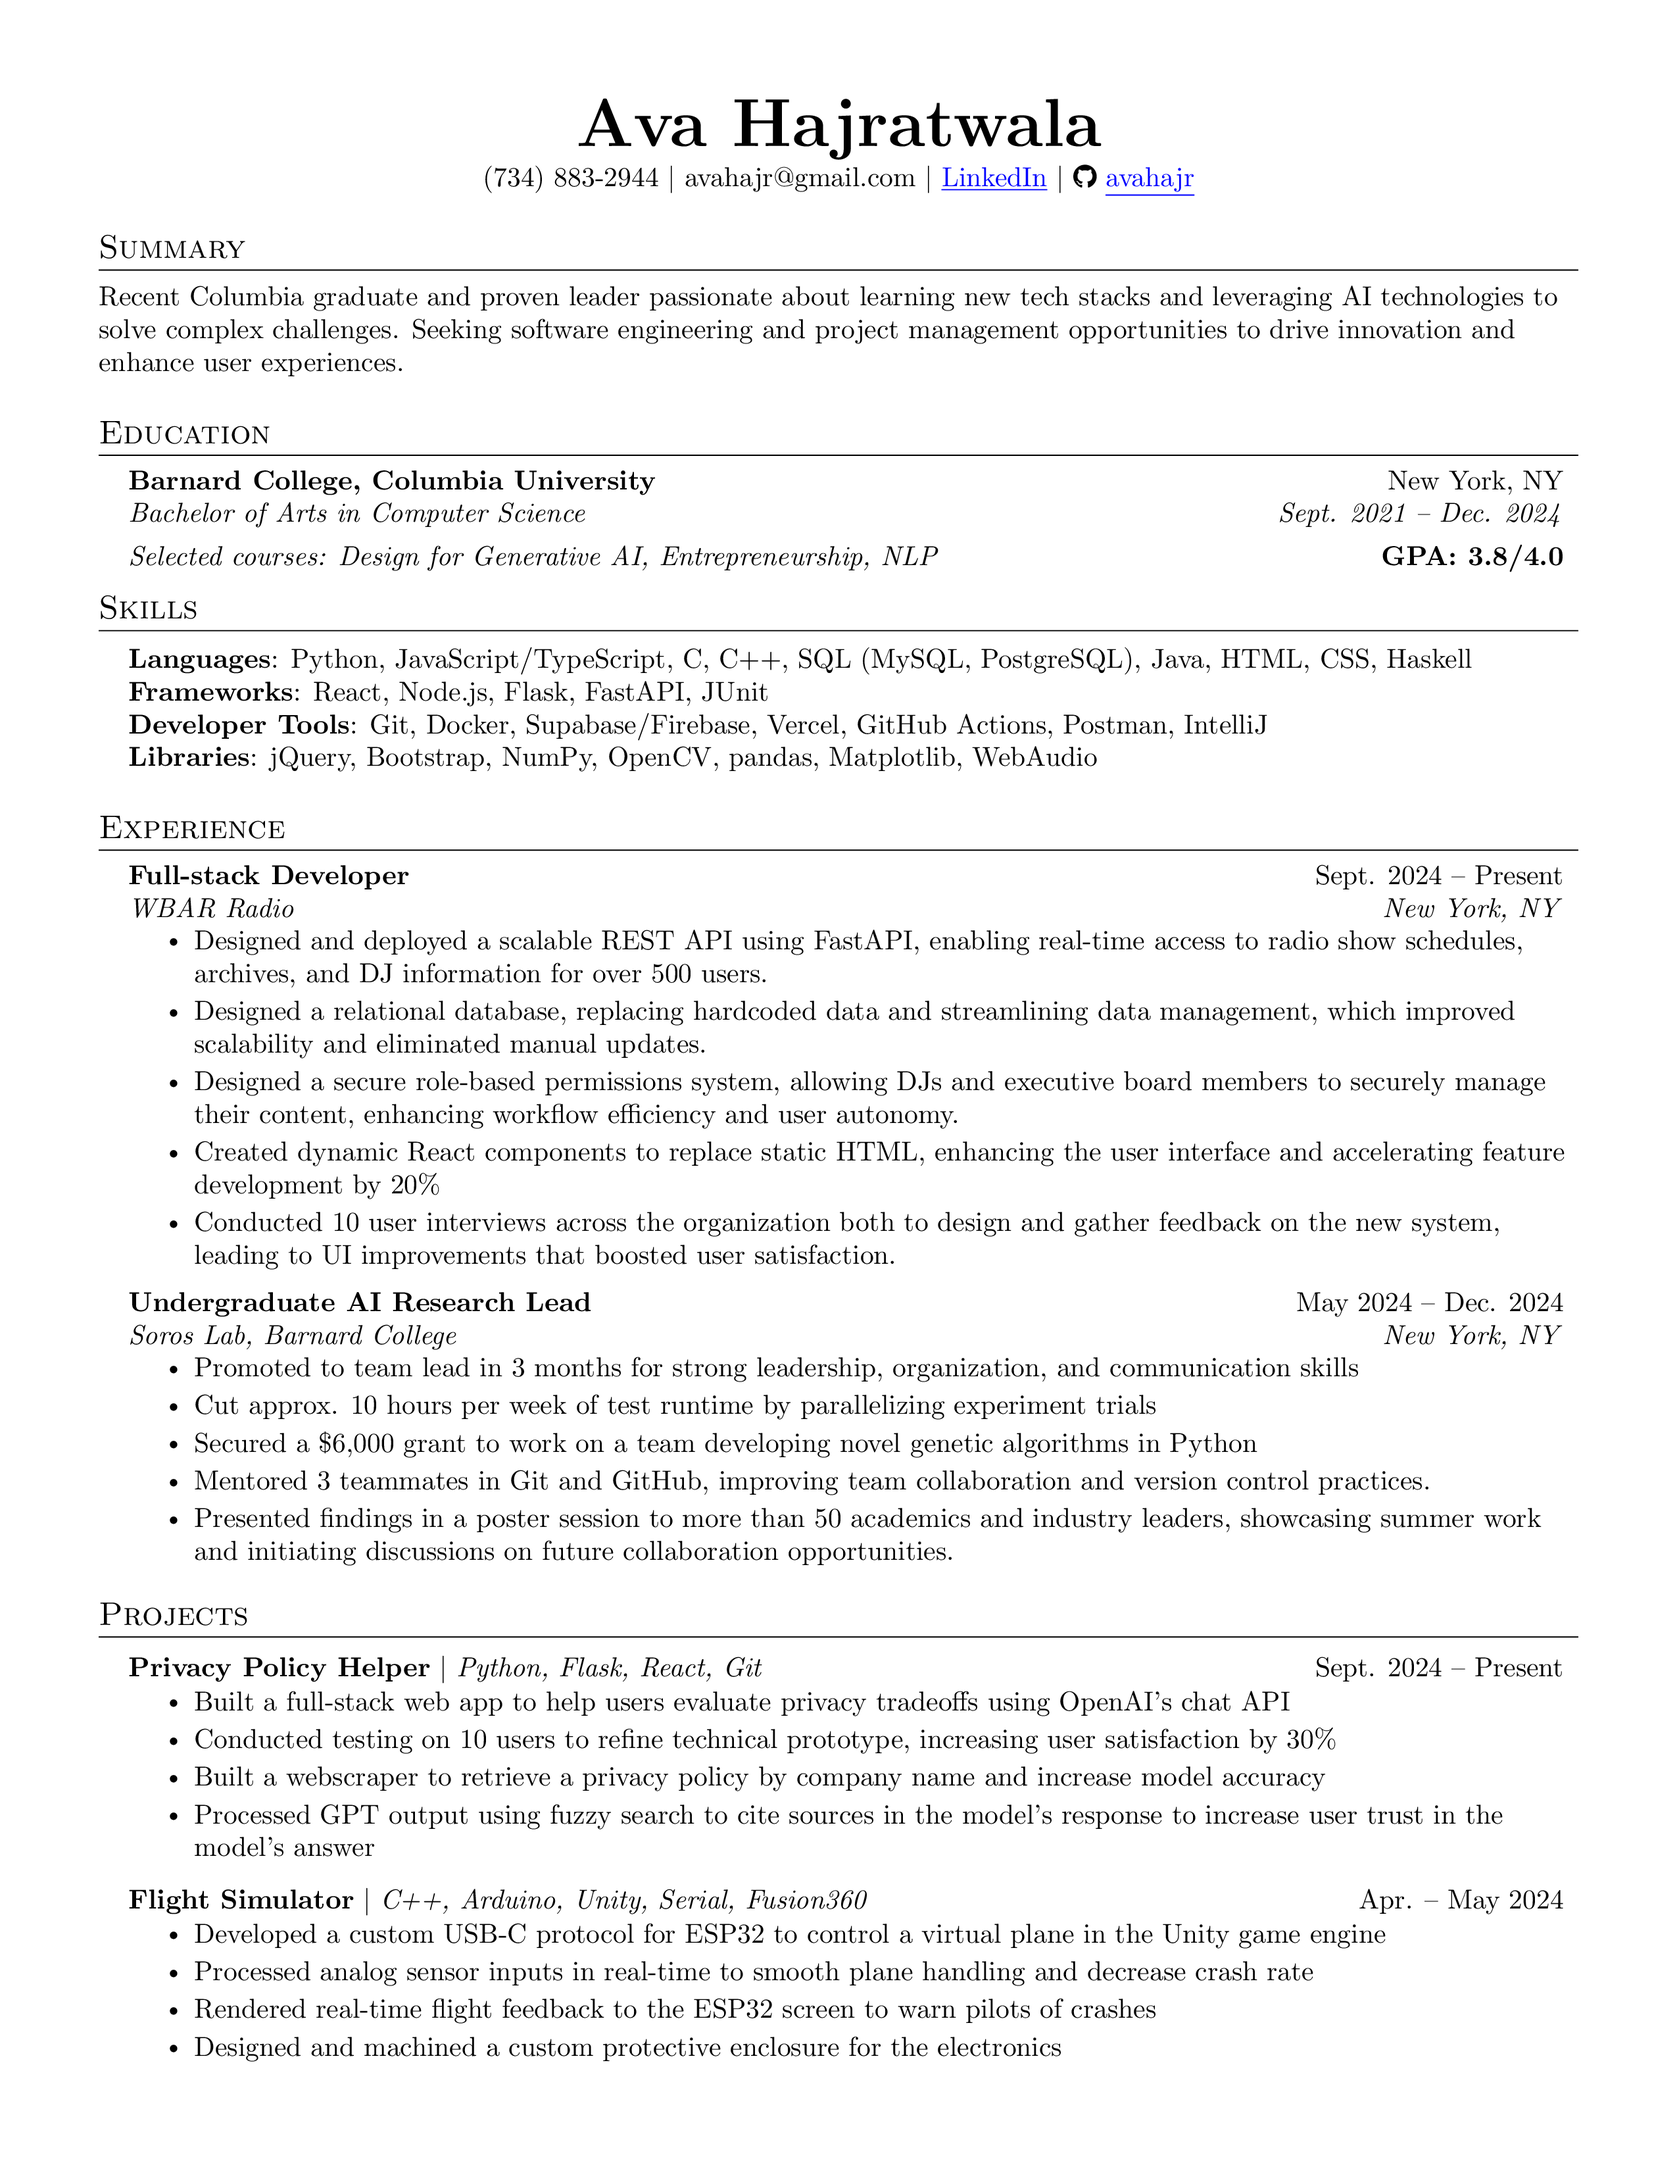
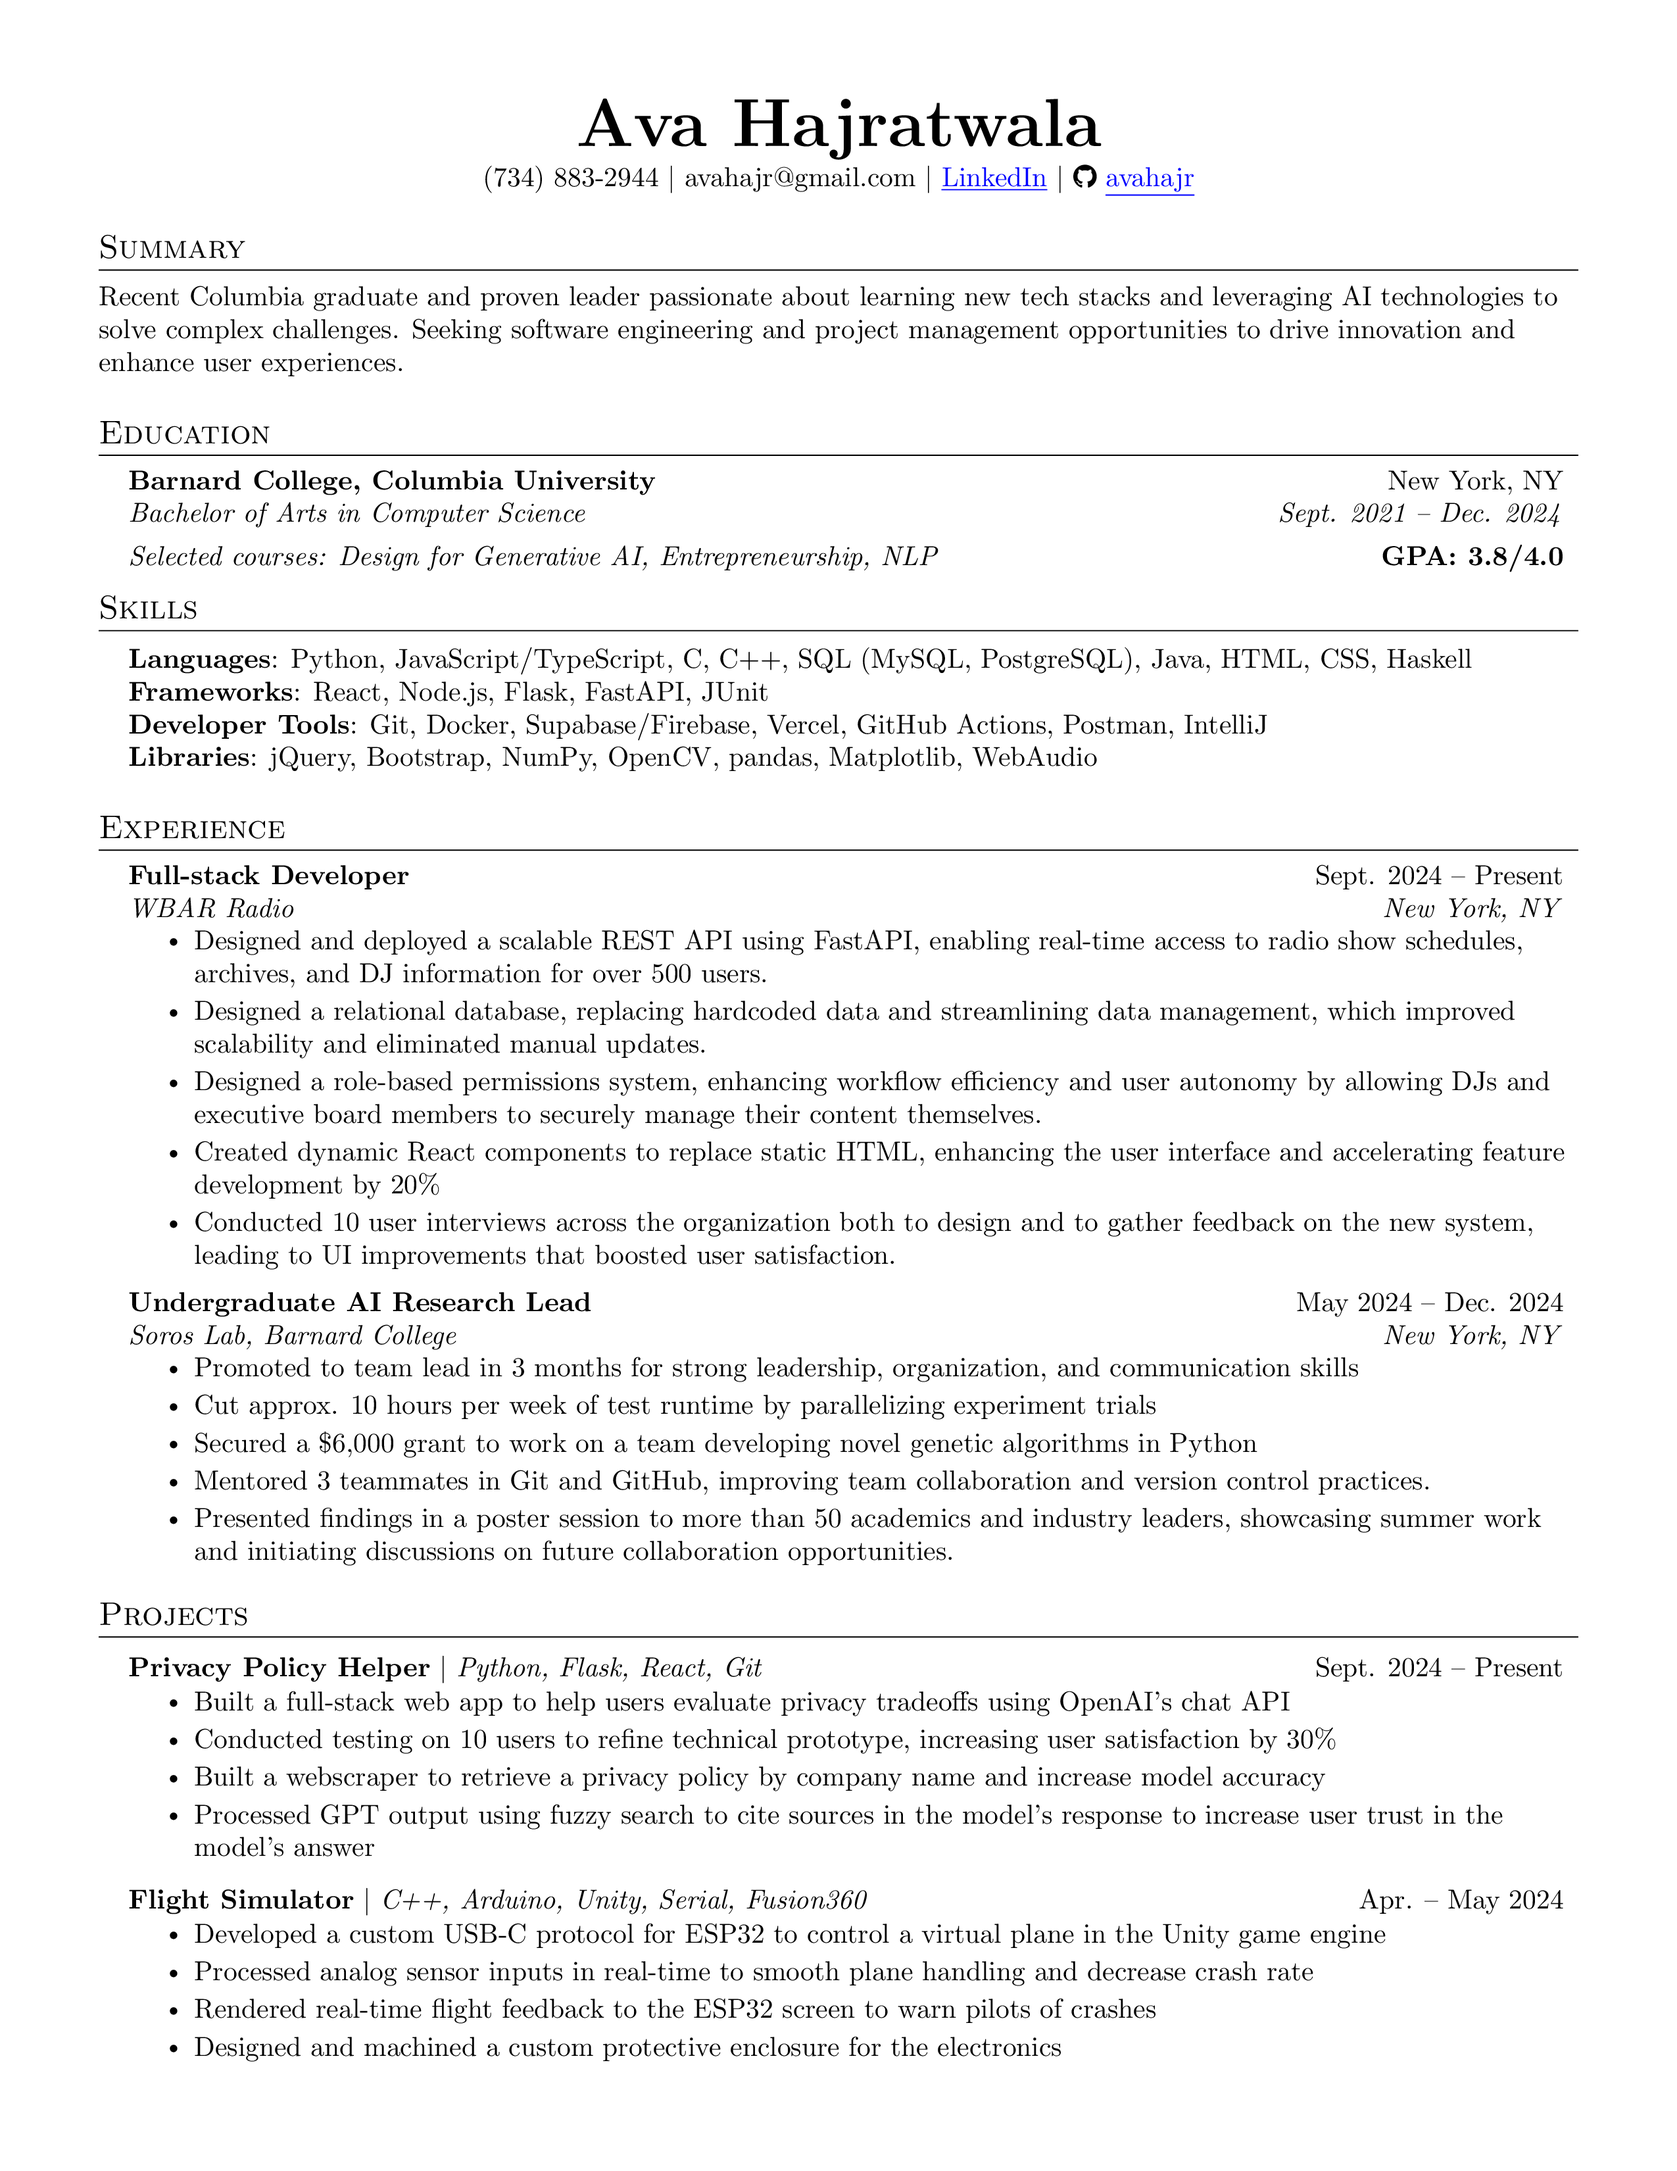
tweak some bullets

Changed region(s): [[0.1859, 0.4994, 0.6196, 0.5306], [0.7125, 0.5618, 0.7435, 0.593]]

diff --git a/resume.tex b/resume.tex
@@ -165,9 +165,9 @@
 \resumeItemListStart
 \resumeItem{Designed and deployed a scalable REST API using FastAPI, enabling real-time access to radio show schedules, archives, and DJ information for over 500 users.}
 \resumeItem{Designed a relational database, replacing hardcoded data and streamlining data management, which improved scalability and eliminated manual updates.}
-\resumeItem{Designed a secure role-based permissions system, allowing DJs and executive board members to securely manage their content, enhancing workflow efficiency and user autonomy.}
+\resumeItem{Designed a role-based permissions system, enhancing workflow efficiency and user autonomy by allowing DJs and executive board members to securely manage their content themselves.}
 \resumeItem{Created dynamic React components to replace static HTML, enhancing the user interface and accelerating feature development by 20\%}
-\resumeItem{Conducted 10 user interviews across the organization both to design and gather feedback on the new system, leading to UI improvements that boosted user satisfaction.}
+\resumeItem{Conducted 10 user interviews across the organization both to design and to gather feedback on the new system, leading to UI improvements that boosted user satisfaction.}
 \resumeItemListEnd
 
 \resumeSubheading
